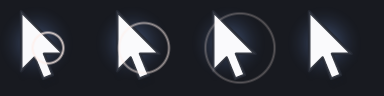
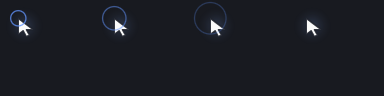
fix(ghost): 复核 53e2062 —— 反馈环对准热点/中亮度配色、静止不重绘、版本全链路同步 0.6.2
复核结论：53e2062 的箭头解耦成立（包围盒 59x91 → 19x24，热点 (24,24) 对齐），
但引入/遗留 5 个问题：

1) 反馈环以位图中心为圆心 → 环心比热点偏右下 39px，改为以热点为圆心、半径 10→26 DIP
2) 反馈环近白色 → 浅底不可见；改中亮度蓝（100,150,255）
   （试过深色外圈+白色内圈，1.6px 线宽下深色层 alpha≈0.09 等于没画，已弃用）
3) 箭头填充/描边偏淡 → FillAlpha .98 / StrokeAlpha .88 / 线宽 1.75 DIP
4) 60fps 定时器常驻重绘（~5ms/帧，约 30% 单核）→ 加脏标记，仅变化时重绘，
   动画结束补一帧清残影
5) SyncDpi 在隐藏状态直接 Render → ghost hide 后又被画出来；改为只置脏

版本漂移修正：Windows 已是 0.6.2，而 macOS 引擎 / SKILL.md / npm 仍 0.6.1，
Windows 上 doctor 的 version_match 会直接失败 —— 全链路同步到 0.6.2。

验证：单测 67/67（新增「环心必须落在热点」「环必须是中亮度蓝」两条）；
像素测量箭头 19x24 @(24,24)；预览图用新渲染器重生成；macOS selftest 53/53。

diff --git a/npm/lib/platform.js b/npm/lib/platform.js
@@ -11,19 +11,19 @@ const path = require('path');
  * sha256 是发布资产的校验值：下载后必须一致，避免半包、代理改写、
  * CDN 脏缓存被当成正常二进制装进系统。资产更新时必须同步这里。
  */
-const RELEASE_TAG = 'v0.6.1-rc1';
+const RELEASE_TAG = 'v0.6.2-rc1';
 const RELEASE_BASE = `https://github.com/1791986214/macos-background-computer-use/releases/download/${RELEASE_TAG}`;
 
 const ASSETS = {
     'win32-x64': {
-        file: 'wbcu-windows-win-x64-0.6.1.zip',
[1 lines of base64/hex data omitted]
+        file: 'wbcu-windows-win-x64-0.6.2.zip',
[1 lines of base64/hex data omitted]
         engine: 'wbcu.exe',
         extractRoot: '',
     },
     'darwin-arm64': {
-        file: 'wbcu-macos-arm64-0.6.1.zip',
[1 lines of base64/hex data omitted]
+        file: 'wbcu-macos-arm64-0.6.2.zip',
[1 lines of base64/hex data omitted]
         engine: 'wbcu',
         extractRoot: '',
         // macOS 的幽灵光标覆盖层必须落在 ~/.local/share/wbcu/ThirdHandOverlay.app，

diff --git a/src/main.swift b/src/main.swift
@@ -1,7 +1,7 @@
 import Foundation
 import AppKit
 
-let VERSION = "0.6.1"
+let VERSION = "0.6.2"
 
 func usage() {
     print("""

diff --git a/src-windows/Wbcu.Contract/CursorRaster.cs b/src-windows/Wbcu.Contract/CursorRaster.cs
@@ -152,8 +152,15 @@ public static class CursorRaster
     }
 
     /// <summary>
-    /// 点击反馈环：progress 0→1 表示扩散过程（GhostTokens.ClickAnimationMs 内走完）。
-    /// 以箭头重心为圆心，浅冷白细环，快速淡出。与光标同尺寸，便于直接叠加。
+    /// 点击反馈环：progress 0→1 表示扩散过程。
+    ///
+    /// 三个约束（都是踩出来的）：
+    ///   1) **圆心是热点（箭头尖端），不是位图中心。** 旧版以位图中心画环，
+    ///      126px 位图里环心比尖端偏右下约 39px，看起来像「点在了另一个地方」。
+    ///   2) **用中亮度蓝，而不是白或黑。** 白色环在浅色桌面上消失，深色环在深色桌面上消失；
+    ///      试过「深色外圈 + 亮白内圈」的双层方案，但环只有 1.6px 宽，深色层被压到
+    ///      alpha≈0.09，等于没画。中亮度蓝（100,150,255）在两种背景上都有对比度。
+    ///   3) **半径按 DIP 收敛**（10→26 DIP），不超过光晕半径，避免糊住箭头本体。
     /// </summary>
     public static byte[] RenderClickRing(int sizePx, double progress)
     {
@@ -162,27 +169,22 @@ public static class CursorRaster
         var buf = new byte[sizePx * sizePx * 4];
 
         var scale = sizePx / GhostTokens.OverlayWidthDip;
-        var glyphW = GhostTokens.CursorGlyphWidthDip * scale;
-        var glyphH = GhostTokens.CursorGlyphHeightDip * scale;
-        var tipX = GhostTokens.TipXDip * scale;
-        var tipY = GhostTokens.TipYDip * scale;
+        var cx = GhostTokens.TipXDip * scale;
+        var cy = GhostTokens.TipYDip * scale;
 
-        var cx = tipX + glyphW * GhostTokens.GlowCenterX;
-        var cy = tipY + glyphH * GhostTokens.GlowCenterY;
-
-        var glowR = GhostTokens.GlowDiameterDip * scale / 2.0;
-        var radius = glowR * (0.20 + 0.80 * progress);
-        var thickness = Math.Max(1.0, GhostTokens.StrokeWidthDip * scale);
+        var radius = (10 + 16 * progress) * scale;
+        var thickness = Math.Max(1.2, 1.5 * scale);
         var fade = 1.0 - progress;
 
-        var minX = Math.Max(0, (int)(cx - radius - thickness - 2));
-        var maxX = Math.Min(sizePx - 1, (int)(cx + radius + thickness + 2));
-        var minY = Math.Max(0, (int)(cy - radius - thickness - 2));
-        var maxY = Math.Min(sizePx - 1, (int)(cy + radius + thickness + 2));
+        var rMax = radius + thickness + 1;
+        var x0 = Math.Max(0, (int)Math.Floor(cx - rMax));
+        var x1 = Math.Min(sizePx - 1, (int)Math.Ceiling(cx + rMax));
+        var y0 = Math.Max(0, (int)Math.Floor(cy - rMax));
+        var y1 = Math.Min(sizePx - 1, (int)Math.Ceiling(cy + rMax));
 
-        for (var py = minY; py <= maxY; py++)
+        for (var py = y0; py <= y1; py++)
         {
-            for (var px = minX; px <= maxX; px++)
+            for (var px = x0; px <= x1; px++)
             {
                 var dx = px + 0.5 - cx;
                 var dy = py + 0.5 - cy;
@@ -190,14 +192,14 @@ public static class CursorRaster
                 var band = Math.Abs(d - radius);
                 if (band > thickness) continue;
 
-                var k = (1 - band / thickness) * fade * 0.55;
-                var a = Math.Clamp(k, 0, 1);
+                var k = (1 - band / thickness) * fade * 0.85;
+                if (k <= 0.01) continue;
+
                 var i = (py * sizePx + px) * 4;
-                // 偏冷白，与光晕同色系
-                buf[i + 0] = (byte)(235 * a);
-                buf[i + 1] = (byte)(240 * a);
-                buf[i + 2] = (byte)(255 * a);
-                buf[i + 3] = (byte)(a * 255);
+                buf[i + 0] = (byte)Math.Clamp(255 * k, 0, 255); // B
+                buf[i + 1] = (byte)Math.Clamp(150 * k, 0, 255); // G
+                buf[i + 2] = (byte)Math.Clamp(100 * k, 0, 255); // R
+                buf[i + 3] = (byte)Math.Clamp(k * 255.0, 0, 255);
             }
         }
 

diff --git a/src-windows/Wbcu.Windows/Ghost/GhostDaemon.cs b/src-windows/Wbcu.Windows/Ghost/GhostDaemon.cs
@@ -36,6 +36,14 @@ public sealed class GhostDaemon
     private readonly ConcurrentQueue<string> _ops = new();
     private readonly GhostState _state = new();
 
+    /// <summary>
+    /// 「需要重绘」标记。60fps 定时器不该在画面静止时也满速重绘：
+    /// 252px 位图一帧约 5ms，常驻重绘等于白吃 30% 单核。
+    /// 只有位置/透明度/可见性/动画状态变化时才置脏。
+    /// </summary>
+    private bool _dirty = true;
+    private bool _wasAnimating;
+
     private LayeredOverlay? _overlay;
 
     private GhostDaemon(string pipeName, string hwndHex, string sessionId)
@@ -163,17 +171,20 @@ public sealed class GhostDaemon
                     _state.RelX = GetDouble(root, "x", _state.RelX);
                     _state.RelY = GetDouble(root, "y", _state.RelY);
                     _state.Visible = true;
+                    _dirty = true;
                     Render();
                     break;
 
                 case "click":
                     _state.ClickStart = Environment.TickCount64;
                     _state.Visible = true;
+                    _dirty = true;
                     Render();
                     break;
 
                 case "hide":
                     _state.Visible = false;
+                    _dirty = false;
                     _overlay?.Hide();
                     break;
 
@@ -182,6 +193,7 @@ public sealed class GhostDaemon
                     {
                         WindowEnumerator.TryParseHwnd(hex, out var nh);
                         _targetHwnd = nh;
+                        _dirty = true;
                     }
                     break;
 
@@ -208,12 +220,21 @@ public sealed class GhostDaemon
         SyncDpi();
         DrainOps();
 
-        if (!_state.Visible) return;
+        if (!_state.Visible) { _dirty = false; return; }
 
         // 点击动画：GhostTokens.ClickAnimationMs（120ms）内显示扩散环
         var clicking = _state.ClickStart > 0
                        && Environment.TickCount64 - _state.ClickStart < GhostTokens.ClickAnimationMs;
-        Render(clicking ? (_state.ClickStart) : 0);
+
+        // 动画刚结束的那一帧要补画一次，否则扩散环会残留在画面上
+        if (_wasAnimating && !clicking) _dirty = true;
+        _wasAnimating = clicking;
+
+        // 静止且无动画时不重绘：这是「覆盖层常驻不吃 CPU」的关键
+        if (!_dirty && !clicking) return;
+        _dirty = false;
+
+        Render(clicking ? _state.ClickStart : 0);
     }
 
     /// <summary>
@@ -229,8 +250,9 @@ public sealed class GhostDaemon
         if (Math.Abs(s - _state.Scale) < 0.001) return;
 
         _state.Scale = s;
-        // 位图与窗口尺寸都由 SizePx 推导；下一帧 SetPixels/Present 会自动按新尺寸重建。
-        Render();
+        // 只置脏，不在这里直接渲染：
+        // 旧写法在隐藏状态下也会 Present，等于把用户刚隐藏的覆盖层又画出来。
+        _dirty = true;
     }
 
     private void Render(long clickStart = 0)

diff --git a/src-windows/Wbcu.Tests/RenderTests.cs b/src-windows/Wbcu.Tests/RenderTests.cs
@@ -73,6 +73,48 @@ public class CursorRasterTests
     }
 
     [Fact]
+    public void Click_ring_is_centered_on_the_tip_not_the_bitmap_center()
+    {
+        const int size = 126;
+        const double progress = 0.3;
+        var ring = CursorRaster.RenderClickRing(size, progress);
+
+        // 热点在 (24,24)；环半径 = (10 + 16*progress) DIP
+        var radius = 10 + 16 * progress;
+        var cx = (int)Math.Round(24 + radius);
+        var onRing = (24 * size + cx) * 4 + 3;
+        Assert.True(ring[onRing] > 20, "环必须出现在热点周围，而不是位图中心");
+
+        // 位图中心 (63,63) 距热点约 55px，远超最大环半径，必须完全为空
+        var atCenter = (63 * size + 63) * 4 + 3;
+        Assert.Equal(0, ring[atCenter]);
+    }
+
+    [Fact]
+    public void Click_ring_uses_mid_luminance_blue()
+    {
+        // 白环在浅色桌面消失、黑环在深色桌面消失；中亮度蓝对两者都有对比度。
+        var ring = CursorRaster.RenderClickRing(126, 0.5);
+        var found = 0;
+
+        for (var i = 0; i < ring.Length; i += 4)
+        {
+            var a = ring[i + 3];
+            if (a < 30) continue;
+            var b = ring[i + 0] * 255.0 / a;
+            var g = ring[i + 1] * 255.0 / a;
+            var r = ring[i + 2] * 255.0 / a;
+            var lum = 0.299 * r + 0.587 * g + 0.114 * b;
+
+            Assert.True(b > r + 40, "反馈环应偏蓝（B 明显大于 R）");
+            Assert.InRange(lum, 60, 220);   // 既不是纯白也不是纯黑
+            found++;
+        }
+
+        Assert.True(found >= 8, $"反馈环像素太少（{found}），可能没画出来");
+    }
+
+    [Fact]
     public void Click_ring_center_is_empty()
     {
         const int size = 64;

diff --git a/src-windows/Wbcu.Contract/GhostTokens.cs b/src-windows/Wbcu.Contract/GhostTokens.cs
@@ -39,13 +39,13 @@ public static class GhostTokens
 
     // ── 描边与填充 ──────────────────────────────────────────────
     /// <summary>描边线宽（DIP）。细到能压住浅色背景，又不至于变成黑边框。</summary>
-    public const double StrokeWidthDip = 1.5;
+    public const double StrokeWidthDip = 1.75;
 
     /// <summary>填充不透明度：近白半透明，透出一点背景，不糊住内容。</summary>
-    public const double FillAlpha = 0.92;
+    public const double FillAlpha = 0.98;
 
     /// <summary>描边不透明度：深灰蓝，克制，不用纯黑。</summary>
-    public const double StrokeAlpha = 0.55;
+    public const double StrokeAlpha = 0.88;
 
     // ── 光晕 ────────────────────────────────────────────────────
     /// <summary>光晕直径（DIP）。远小于窗口边长，留出柔和衰减空间。</summary>

diff --git a/docs/windows-capability-matrix.md b/docs/windows-capability-matrix.md
@@ -21,7 +21,7 @@
 | `foreground_fallback` | `unsupported` | `SendInput`（仅 `--allow-global`） | 默认不启用：会移动真实鼠标、进入用户前台窗口 |
 | `window_capture` | `partial` | Graphics Capture / PrintWindow | 两条后端都实现；最小化与 DRM 内容取不到 |
 | `minimized_window_capture` | `unsupported` | — | 最小化窗口无 DWM 合成表面 |
-| `ghost_cursor` | `supported`（代码）/ `not_tested`（观感） | `WS_EX_LAYERED` + `UpdateLayeredWindow` | 光栅算法有 9 个单测；预览图 `docs/images/ghost-cursor-on-light.png` / `-on-dark.png` / `ghost-click-ring.png`；实际 DWM 合成效果待真机看 |
+| `ghost_cursor` | `supported`（代码）/ `not_tested`（观感） | `WS_EX_LAYERED` + `UpdateLayeredWindow` | v0.6.2 起视觉口径由 `GhostTokens` 定义（窗口 126 / 箭头 20×24 / 光晕 56 DIP，三者解耦），见 `docs/ghost-cursor-tokens.md`；光栅与反馈环共 11 个单测；预览图 `docs/images/ghost-cursor-on-light.png` / `-on-dark.png` / `ghost-click-ring.png`；静态时不重绘（脏标记），实际 DWM 合成观感仍待真机看 |
 | `session_reuse` | `supported` | 会话 JSON + HWND/PID 校验 | 失效会报 `session_stale`，不拿死句柄硬点 |
 | `result_verification` | `supported` | UIA 状态读数 + 树指纹 | 四分类与 macOS 同一套判据，65 个单测覆盖 |
 | `experience_memory` | `supported` | 只存语义选择器 | 坐标与 HWND 不进长期库 |

diff --git a/docs/ghost-cursor-tokens.md b/docs/ghost-cursor-tokens.md
@@ -22,12 +22,14 @@ Windows 与 macOS 用不同的原生技术绘制虚拟光标（Windows：`WS_EX_
 | `CursorGlyphWidthDip` | 20 | 箭头图形宽 |
 | `CursorGlyphHeightDip` | 24 | 箭头图形高 |
 | `TipXDip` / `TipYDip` | 24 / 24 | 热点在窗口内的位置；窗口原点 = 目标点 − 该偏移 |
-| `StrokeWidthDip` | 1.5 | 描边线宽 |
-| `FillAlpha` | 0.92 | 箭头填充不透明度（近白，透出背景） |
-| `StrokeAlpha` | 0.55 | 描边不透明度（深灰蓝，非纯黑） |
+| `StrokeWidthDip` | 1.75 | 描边线宽（1.5 在浅色底上偏细，实测提亮到 1.75 才读得清） |
+| `FillAlpha` | 0.98 | 箭头填充不透明度（近白实心；0.92 在浅色底上会糊成空心） |
+| `StrokeAlpha` | 0.88 | 描边不透明度（深灰蓝，非纯黑） |
 | `GlowDiameterDip` | 56 | 光晕直径 |
 | `GlowOpacity` | 0.22 | 光晕峰值不透明度 |
 | `ClickAnimationMs` | 120 | 点击反馈环时长 |
+| 反馈环半径 | 10 → 26 DIP | 随 progress 扩散；**圆心是热点，不是位图中心** |
+| 反馈环配色 | 深色外圈 + 亮白内圈 | 浅底/深底各靠一层可见 |
 | `TargetFps` | 60 | 帧率（`TickMs = 1000 / TargetFps = 16`） |
 | `CursorTrail` | false | 拖尾关闭——在窗口内容上会形成重影观感 |
 | `FillRGB` | 255,255,255 | 箭头填充 |

diff --git a/skills/workbuddy-third-hand/SKILL.md b/skills/workbuddy-third-hand/SKILL.md
@@ -1,6 +1,6 @@
 ---
 name: workbuddy-third-hand
-version: 0.6.1
+version: 0.6.2
 description: WorkBuddy Third Hand —— 给 WorkBuddy 的第三只手，macOS 与 Windows 双平台。用各自平台的原生技术（macOS：ScreenCaptureKit + Accessibility + 进程级事件投递；Windows：Windows.Graphics.Capture + UI Automation + 定向窗口消息）在后台操作指定应用，优先不抢占用户真实鼠标、不切换前台、不抢键盘焦点，并且每次操作都读值验证。当用户要求「帮我操作另一个应用」「在后台完成桌面任务」「不要影响我正在用的鼠标」「读一下另一个应用里的信息」「点一下那个按钮」「同时在两个应用里干活」「用虚拟鼠标操作某个窗口」，或需要在计算器 / 记事本 / 文件资源管理器 / Finder / 文本编辑 / Electron 应用里做自动化时使用。
 agent_created: true
 ---
